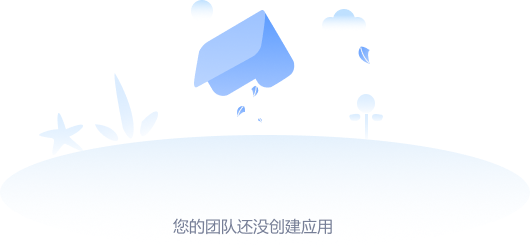
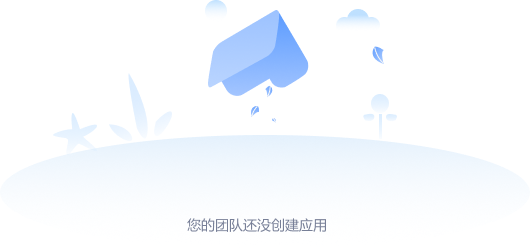
调整样式5

diff --git a/src/pages/Apps.js b/src/pages/Apps.js
@@ -98,7 +98,7 @@ class Apps extends React.Component {
               <img
                 src="/image/davinci/noapps-normal.png"
                 alt=""
-                style={{ paddingBottom: "15px" }}
+                style={{ paddingBottom: "16px", paddingRight: "28px" }}
               />
             )}
           </Content>
